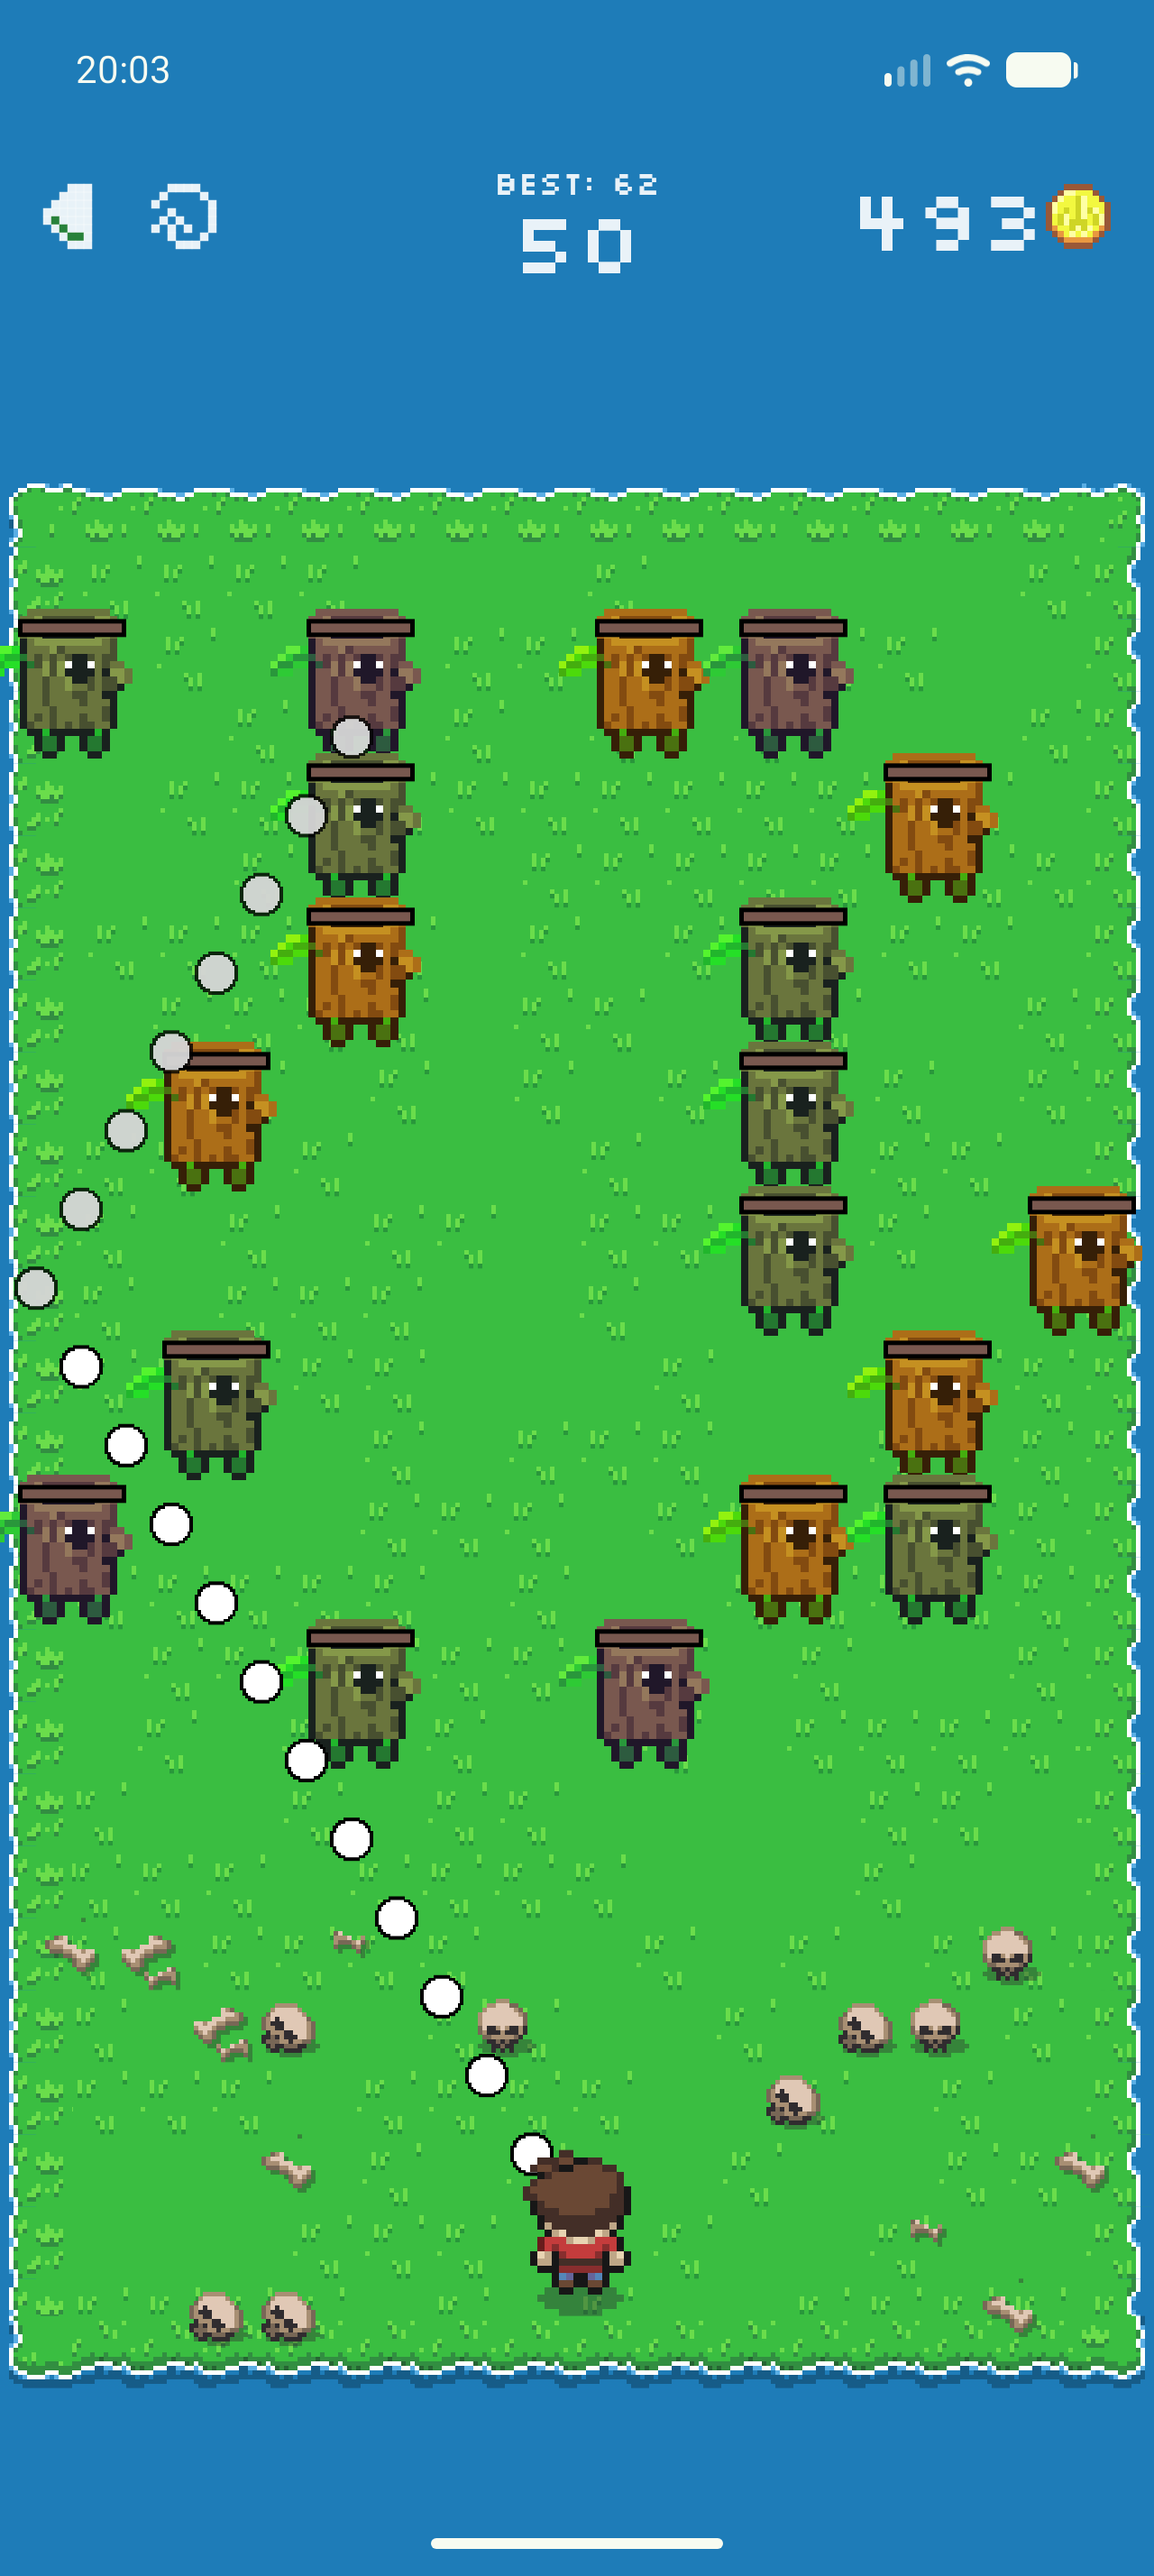
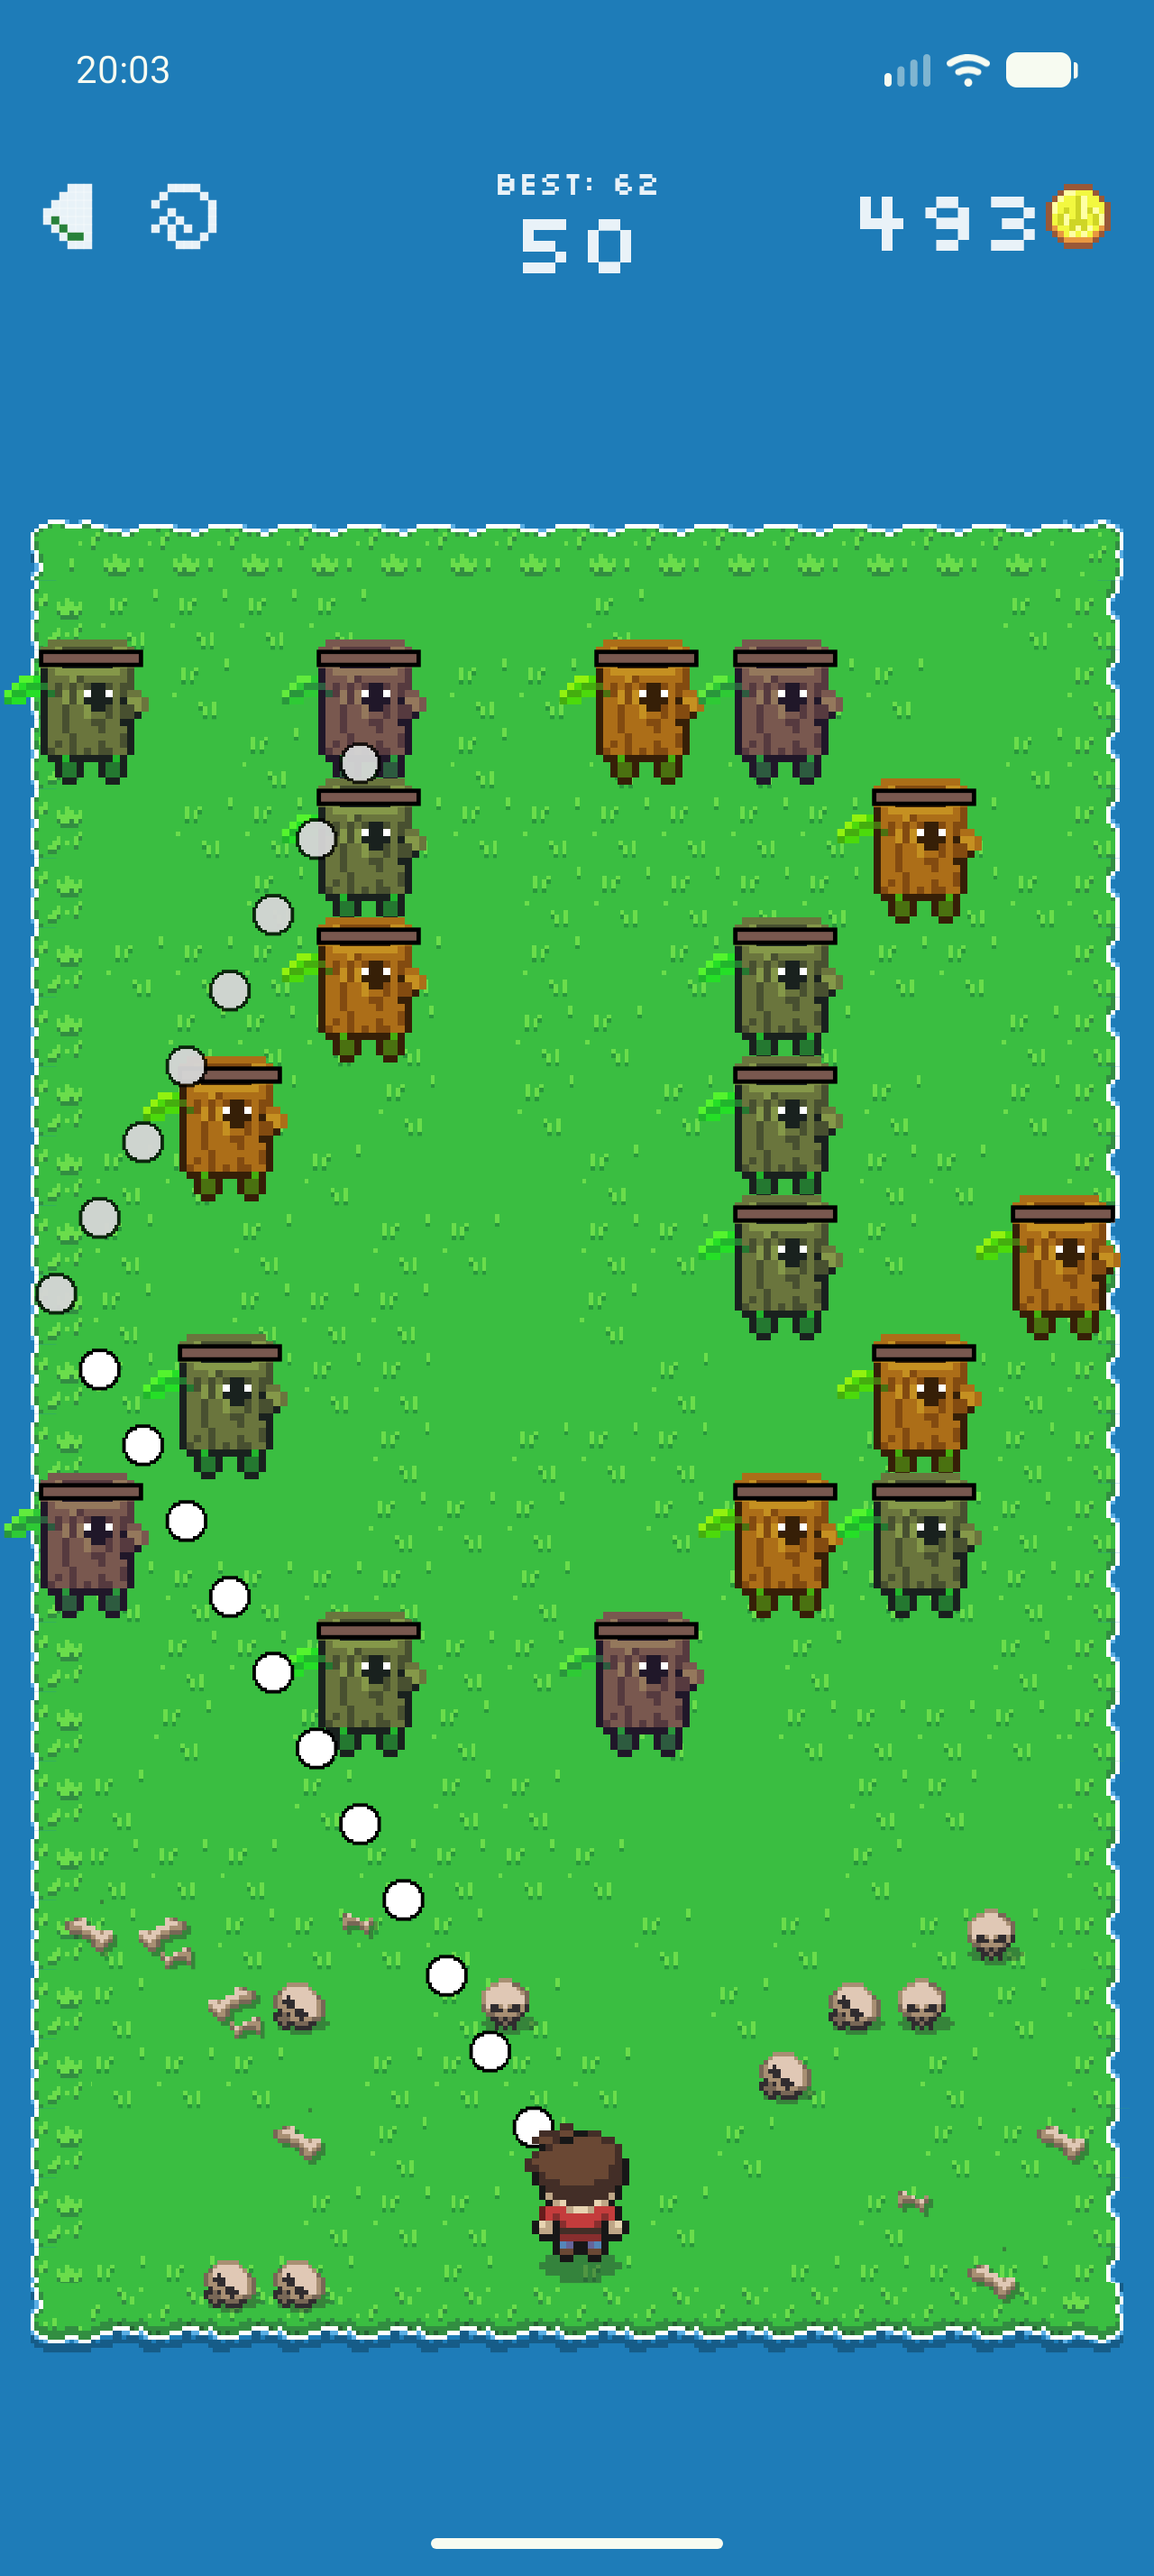
tweak: add some space on android for back gesture

Changed region(s): [[0.0, 0.187, 1.0, 0.9349], [0.5625, 0.7479, 0.5938, 0.7791], [0.5, 0.7167, 0.5312, 0.7479]]

diff --git a/lib/pages/play.dart b/lib/pages/play.dart
@@ -88,7 +88,8 @@ class _PlayPageState extends State<PlayPage> {
   @override
   Widget build(BuildContext context) {
     final textDirection = Directionality.maybeOf(context) ?? TextDirection.ltr;
-    final colorScheme = Theme.of(context).colorScheme;
+    final theme = Theme.of(context);
+    final colorScheme = theme.colorScheme;
     final screenSize = MediaQuery.sizeOf(context);
     final bgColor = RicochlimeGame.isDarkMode.value
         ? RicochlimePalette.waterColorDark
@@ -220,11 +221,17 @@ class _PlayPageState extends State<PlayPage> {
               child: Stack(
                 children: [
                   Positioned.fill(
-                    child: FittedBox(
-                      child: SizedBox(
-                        width: RicochlimeGame.expectedWidth,
-                        height: RicochlimeGame.expectedHeight,
-                        child: GameWidget(game: RicochlimeGame.instance),
+                    child: Padding(
+                      padding: theme.platform == TargetPlatform.android
+                          // Some space to avoid back gestures on Android
+                          ? const EdgeInsets.symmetric(horizontal: 8)
+                          : EdgeInsets.zero,
+                      child: FittedBox(
+                        child: SizedBox(
+                          width: RicochlimeGame.expectedWidth,
+                          height: RicochlimeGame.expectedHeight,
+                          child: GameWidget(game: RicochlimeGame.instance),
+                        ),
                       ),
                     ),
                   ),
